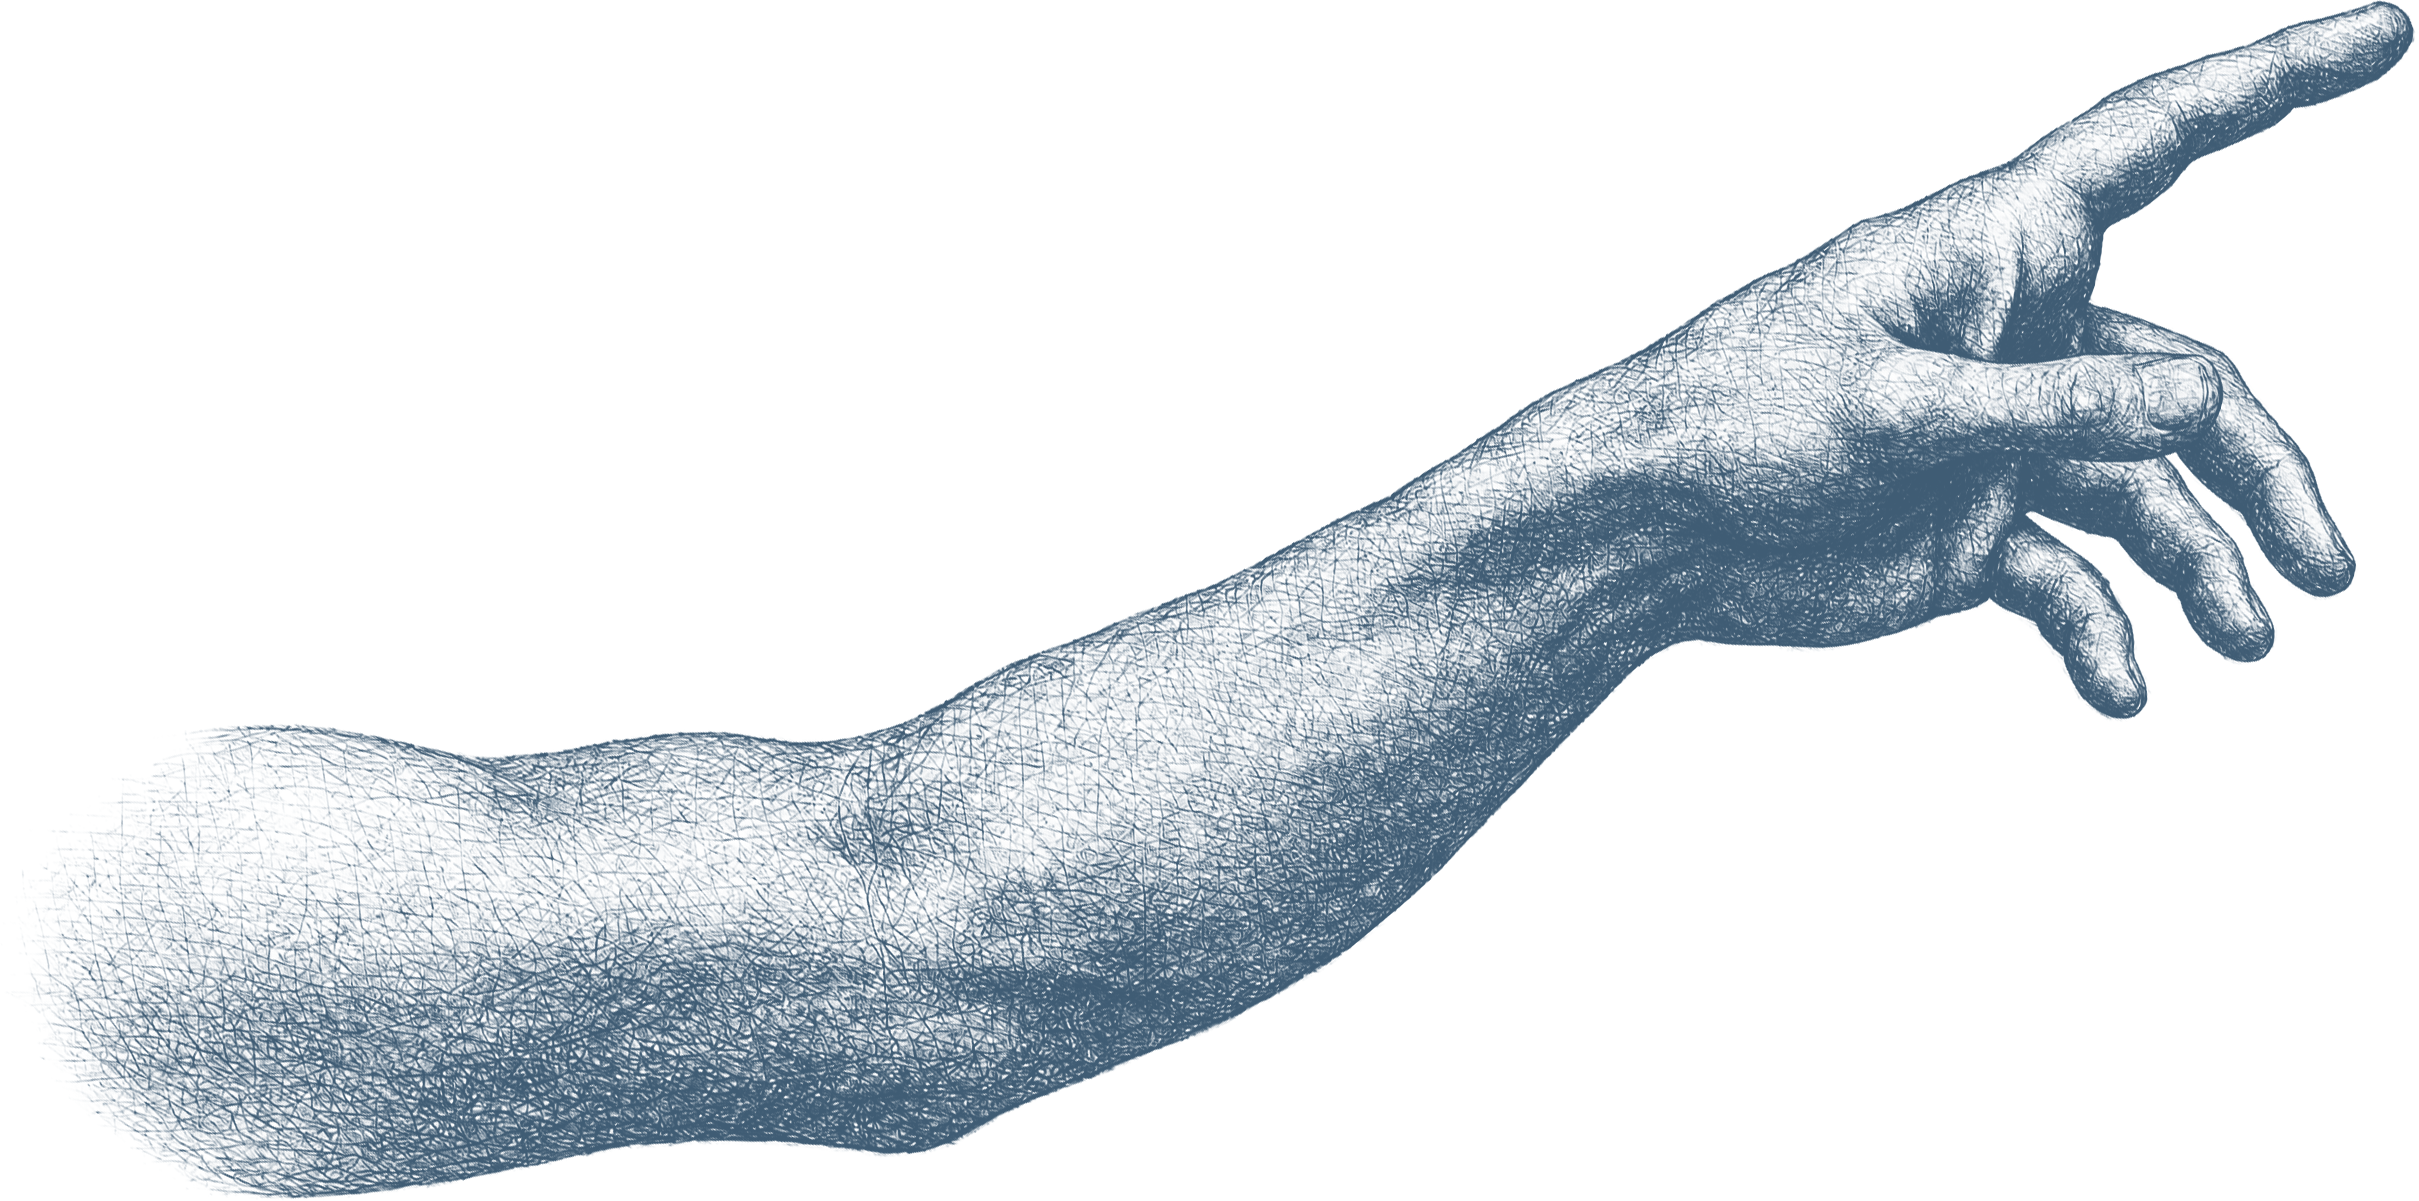
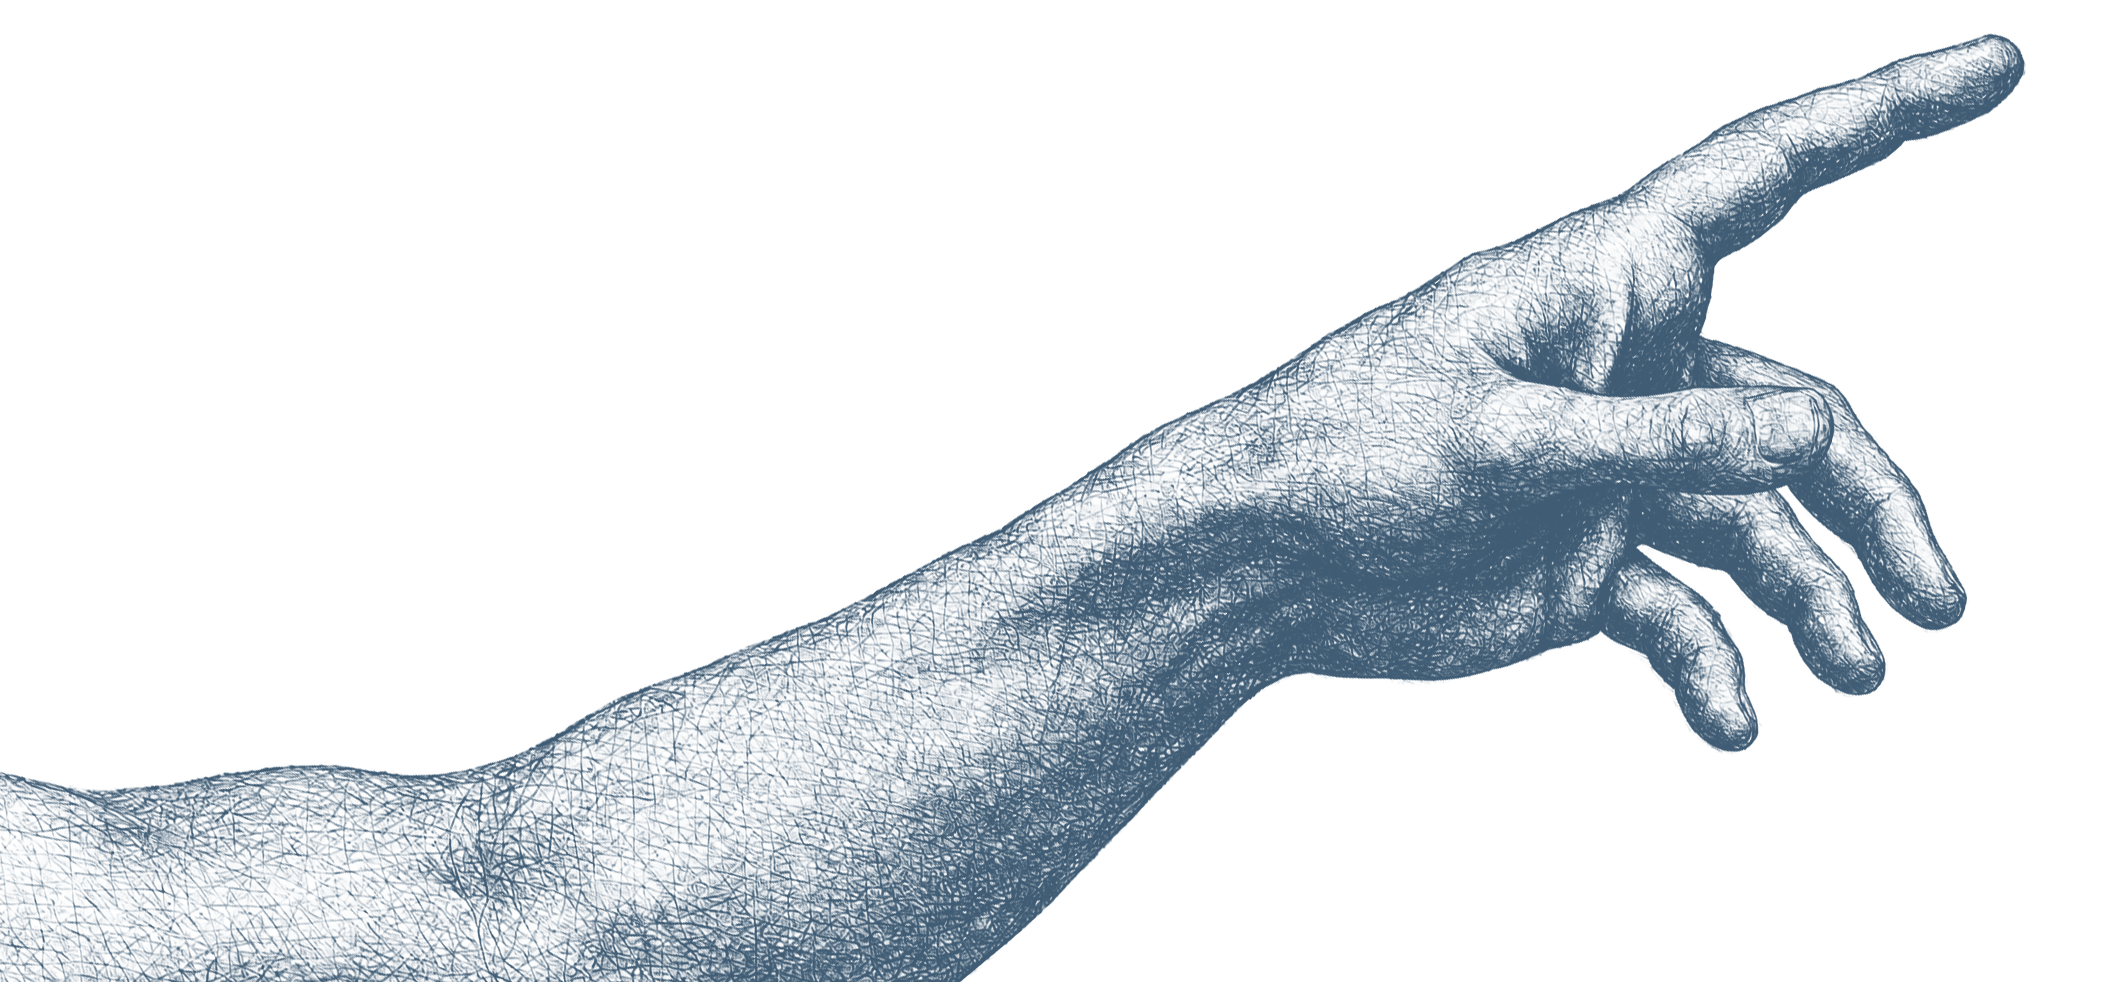
fix(landing): arm.png loads + mobile reflow (organism + pane padding + arm anchor tracks core) (#440)
* fix(landing): swap arm.png for smaller variant (906KB) so it loads

The 1.3MB arm.png never finished loading on the live site — Chrome
reported imgComplete:false, naturalWidth/Height:0 even though curl
returned 200. Replacing with the 906KB variant from the design
uploads folder which is the same visual asset.

* fix(landing): mobile reflow — pane padding + organism CY below the glass

Three coupled fixes for the mobile (≤900px) viewport:

1. With the glass pane reflowed to a full-width top bar, the organism
   core was sitting at CY = H * 0.42 — inside the pane, so the entire
   organism was visually hidden behind the frosted glass. Now the
   organism JS measures `.hero-pane.getBoundingClientRect().bottom` on
   every resize() and sets CY to the midpoint between the pane bottom
   and the viewport bottom, so the core lives in the open space below
   the glass.

2. The arm anchor used to hardcode `top: 42vh` (mobile) / `top: 50vh`
   (desktop), so it would drift when CY changed. The anchor now reads
   from CSS custom properties `--organism-cx` / `--organism-cy` which
   organism.ts updates inside resize() at the same time it computes
   CX/CY. The fingertip tracks the core hex automatically across
   desktop/mobile reflow.

3. Mobile padding between the UNICRON SYSTEMS lockup and the eyebrow
   was zero — desktop relied on `.pane-spacer { flex: 1 }` for that
   gap, but the spacer is `display: none` on mobile. Added an explicit
[…]

Changed region(s): [[0.0, 0.0, 1.0, 1.0]]

diff --git a/app/page.tsx b/app/page.tsx
@@ -315,12 +315,13 @@ html, body {
     #b8c0c6;
 }
 
-/* Arm (layer 2). Anchor: bottom-left of the canvas core hex
-   (W*0.68, H*0.5 desktop, W*0.5, H*0.42 mobile). */
+/* Arm (layer 2). Anchored to the canvas core hex — the organism JS
+   updates --organism-cx / --organism-cy on every resize so the fingertip
+   tracks the core regardless of desktop/mobile reflow. */
 .arm-anchor {
   position: fixed;
-  left: 68vw;
-  top: 50vh;
+  left: var(--organism-cx, 68vw);
+  top:  var(--organism-cy, 50vh);
   margin-left: -40px;
   margin-top: 16px;
   z-index: 1;
@@ -338,9 +339,9 @@ html, body {
   filter: contrast(1.05);
 }
 @media (max-width: 900px) {
+  /* On mobile the JS still sets --organism-cx / --organism-cy; only the
+     fingertip-to-anchor offsets + image scale change. */
   .arm-anchor {
-    left: 50vw;
-    top: 42vh;
     margin-left: -60px;
     margin-top: 32px;
   }
@@ -747,7 +748,10 @@ html, body {
     border-bottom: 1px solid rgba(255, 255, 255, 0.18);
   }
   .pane-spacer { display: none; }
-  .pane-hero { gap: 20px; }
+  /* Padding between the brand lockup and the eyebrow on mobile — the
+     desktop layout relies on pane-spacer's flex:1 for this gap; with the
+     spacer hidden on mobile, give pane-hero an explicit margin-top. */
+  .pane-hero { gap: 20px; margin-top: 32px; }
   .pane-hero .head { font-size: clamp(38px, 9vw, 60px); }
   .pane-hero .sub { font-size: clamp(15px, 3.5vw, 20px); }
   .pane-hero .eyebrow { font-size: clamp(16px, 4vw, 22px); }

diff --git a/app/_landing/organism.ts b/app/_landing/organism.ts
@@ -86,7 +86,20 @@ export function startOrganism({ canvas, feedInner }: Opts): () => void {
     ctx!.setTransform(DPR, 0, 0, DPR, 0, 0);
     const isMobile = W < 900;
     CX = isMobile ? W * 0.5 : W * 0.68;
-    CY = isMobile ? H * 0.42 : H * 0.5;
+    if (isMobile) {
+      // Mobile: glass pane reflows to a full-width top bar; center the
+      // organism in the space between the pane bottom and the viewport
+      // bottom so it isn't hidden behind the pane.
+      const pane = document.querySelector(".hero-pane");
+      const paneBottom = pane ? pane.getBoundingClientRect().bottom : H * 0.4;
+      CY = (paneBottom + H) / 2;
+    } else {
+      CY = H * 0.5;
+    }
+    // Expose the organism center as CSS vars so the arm anchor can track
+    // the core hex without duplicating positioning logic in CSS.
+    document.documentElement.style.setProperty("--organism-cx", `${CX}px`);
+    document.documentElement.style.setProperty("--organism-cy", `${CY}px`);
     buildOrganism();
     initHex();
     initEdgeParticles();
